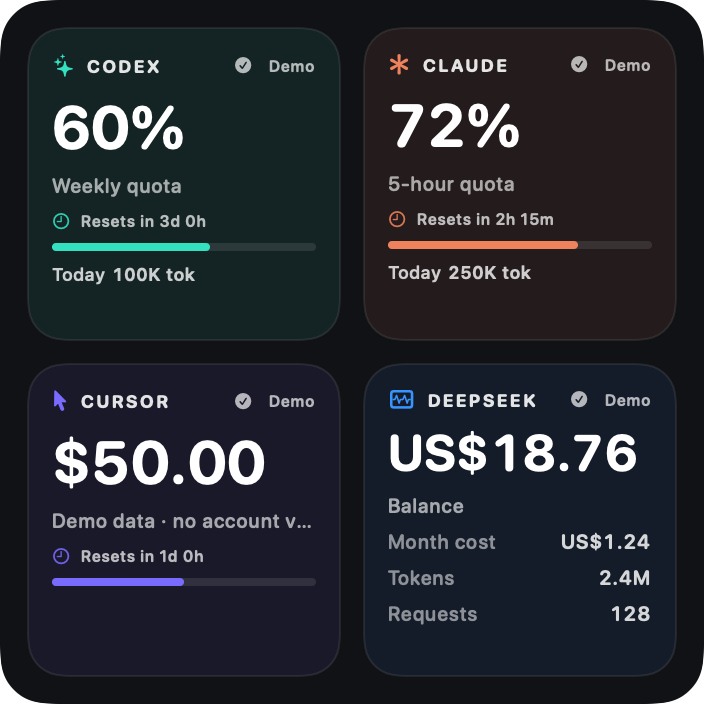
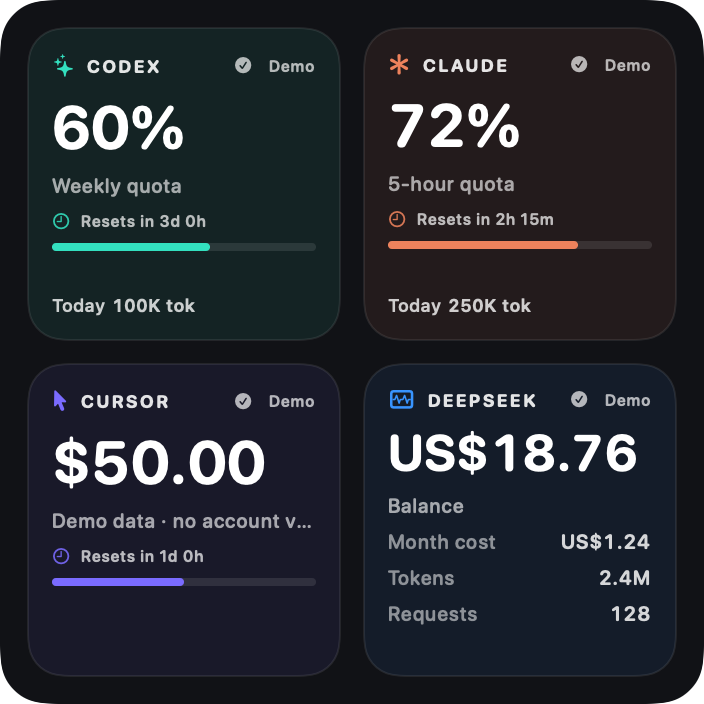
docs: show Services switches and every widget layout
Render the Services switches with a SwiftUI segmented control so screenshots
match the App, add a larger panel for services with a tile or row to
themselves, and document every widget size for one to four services.

Changed region(s): [[0.0625, 0.375, 0.2812, 0.4688], [0.5312, 0.375, 0.75, 0.4688]]

diff --git a/App/UsageMenuComponents.swift b/App/UsageMenuComponents.swift
@@ -183,9 +183,15 @@ struct QuotaLabel: View {
 /// Auto shows a service once it has data on this Mac; On and Off override that.
 struct ServiceSettingsSection: View {
     @ObservedObject var store: UsageStore
+    @State private var isExpanded: Bool
+
+    init(store: UsageStore, initiallyExpanded: Bool = false) {
+        self.store = store
+        _isExpanded = State(initialValue: initiallyExpanded)
+    }
 
     var body: some View {
-        DisclosureGroup {
+        DisclosureGroup(isExpanded: $isExpanded) {
             VStack(spacing: 6) {
                 ForEach(MeterProvider.allCases, id: \.self) { provider in
                     HStack {
@@ -197,17 +203,11 @@ struct ServiceSettingsSection: View {
                                 .foregroundStyle(.secondary)
                         }
                         Spacer()
-                        Picker(provider.displayName, selection: Binding(
+                        VisibilityControl(selection: Binding(
                             get: { store.providerSettings[provider] },
                             set: { store.setVisibility($0, for: provider) }
-                        )) {
-                            Text("Auto").tag(ProviderVisibility.auto)
-                            Text("On").tag(ProviderVisibility.shown)
-                            Text("Off").tag(ProviderVisibility.hidden)
-                        }
-                        .pickerStyle(.segmented)
-                        .labelsHidden()
-                        .fixedSize()
+                        ))
+                        .accessibilityLabel("\(provider.displayName) visibility")
                     }
                 }
             }
@@ -216,6 +216,40 @@ struct ServiceSettingsSection: View {
             Label("Services", systemImage: "slider.horizontal.3")
                 .font(.subheadline.weight(.semibold))
                 .foregroundStyle(.secondary)
+        }
+    }
+}
+
+/// SwiftUI-drawn segmented control, so screenshots render it like the App does.
+private struct VisibilityControl: View {
+    @Binding var selection: ProviderVisibility
+
+    var body: some View {
+        HStack(spacing: 2) {
+            ForEach(ProviderVisibility.allCases, id: \.self) { option in
+                Button { selection = option } label: {
+                    Text(title(option))
+                        .font(.caption.weight(selection == option ? .semibold : .regular))
+                        .frame(width: 42, height: 20)
+                        .background(
+                            RoundedRectangle(cornerRadius: 5, style: .continuous)
+                                .fill(selection == option ? Color.accentColor.opacity(0.85) : .clear)
+                        )
+                        .foregroundStyle(selection == option ? Color.white : Color.primary)
+                }
+                .buttonStyle(.plain)
+                .accessibilityAddTraits(selection == option ? .isSelected : [])
+            }
+        }
+        .padding(2)
+        .background(Color.primary.opacity(0.08), in: RoundedRectangle(cornerRadius: 7, style: .continuous))
+    }
+
+    private func title(_ option: ProviderVisibility) -> String {
+        switch option {
+        case .auto: "Auto"
+        case .shown: "On"
+        case .hidden: "Off"
         }
     }
 }

diff --git a/Widget/QuotaProviderPanel.swift b/Widget/QuotaProviderPanel.swift
@@ -35,12 +35,15 @@ enum QuotaPanelDensity {
     case strip
     case compact
     case regular
+    /// A service with a tile or full row to itself.
+    case hero
 
     var padding: CGFloat {
         switch self {
         case .strip: 6
         case .compact: 6
         case .regular: 12
+        case .hero: 16
         }
     }
 
@@ -49,6 +52,7 @@ enum QuotaPanelDensity {
         case .strip: 2
         case .compact: 2
         case .regular: 6
+        case .hero: 8
         }
     }
 
@@ -57,6 +61,7 @@ enum QuotaPanelDensity {
         case .strip: 17
         case .compact: 20
         case .regular: 30
+        case .hero: 52
         }
     }
 }
@@ -220,6 +225,8 @@ struct QuotaProviderPanel: View {
                 QuotaProgressBar(percent: remainingPercent, tint: progressColor)
                     .frame(height: 4)
             }
+            // Keeps today's tokens at the bottom when the panel has spare height.
+            Spacer(minLength: 0)
             dailyTokenLine
         }
     }
@@ -243,6 +250,14 @@ struct QuotaProviderPanel: View {
     }
 
     private var value: some View {
+        // Drops the "remaining" suffix rather than truncating when space runs out.
+        ViewThatFits(in: .horizontal) {
+            valueRow(showsSuffix: density != .regular)
+            valueRow(showsSuffix: false)
+        }
+    }
+
+    private func valueRow(showsSuffix: Bool) -> some View {
         HStack(alignment: .firstTextBaseline, spacing: 6) {
             Text(valueText)
                 .font(.system(size: density.valueSize, weight: .bold, design: .rounded))
@@ -250,14 +265,16 @@ struct QuotaProviderPanel: View {
                 .foregroundStyle(.white)
                 .lineLimit(1)
                 .minimumScaleFactor(0.7)
-            if density != .regular {
+            if showsSuffix {
                 Text("remaining")
                     .font(.system(size: 9, weight: .semibold, design: .rounded))
                     .foregroundStyle(.white.opacity(0.52))
+                    .fixedSize()
             }
             Spacer(minLength: 0)
         }
     }
+
 
     private var resetLine: some View {
         HStack(spacing: 5) {

diff --git a/App/UsageMenuView.swift b/App/UsageMenuView.swift
@@ -9,6 +9,7 @@ struct UsageMenuView: View {
     var viewHeight: CGFloat = 700
     var referenceDate: Date?
     var refreshErrorOverride: String?
+    var servicesExpanded = false
     private var presentationDate: Date { referenceDate ?? .now }
     private let timer = Timer.publish(every: 300, on: .main, in: .common).autoconnect()
 
@@ -40,12 +41,14 @@ struct UsageMenuView: View {
     }
 
     private var fittedHeight: CGFloat {
-        Self.fittedHeight(for: store.visibleProviders, maxHeight: viewHeight)
+        Self.fittedHeight(for: store.visibleProviders, maxHeight: viewHeight, servicesExpanded: servicesExpanded)
     }
 
     /// Fewer services shrink the popover instead of leaving an empty scroll area;
     /// larger content keeps the requested height and scrolls.
-    static func fittedHeight(for providers: [MeterProvider], maxHeight: CGFloat) -> CGFloat {
+    static func fittedHeight(
+        for providers: [MeterProvider], maxHeight: CGFloat, servicesExpanded: Bool = false
+    ) -> CGFloat {
         let sections = providers.reduce(CGFloat(0)) { total, provider in
             switch provider {
             case .codex, .claude: total + 135
@@ -53,7 +56,7 @@ struct UsageMenuView: View {
             case .deepseek: total + 270
             }
         }
-        return min(maxHeight, 235 + sections)
+        return min(maxHeight, 235 + sections + (servicesExpanded ? 125 : 0))
     }
 
     @ViewBuilder
@@ -72,7 +75,7 @@ struct UsageMenuView: View {
                 section(for: provider)
             }
             Divider()
-            ServiceSettingsSection(store: store)
+            ServiceSettingsSection(store: store, initiallyExpanded: servicesExpanded)
         }
         .padding(16)
         .frame(maxHeight: .infinity, alignment: .top)

diff --git a/Widget/QuotaWidgetContent.swift b/Widget/QuotaWidgetContent.swift
@@ -27,14 +27,20 @@ struct QuotaWidgetContent: View {
                 let roomy = providers.count <= 2
                 VStack(spacing: roomy ? 6 : 4) {
                     ForEach(providers, id: \.self) { provider in
-                        item(provider, quota: roomy ? .compact : .strip, deepSeek: roomy ? .regular : .strip)
+                        item(provider,
+                             quota: providers.count == 1 ? .hero : roomy ? .compact : .strip,
+                             deepSeek: providers.count == 1 ? .tall : roomy ? .regular : .strip)
                     }
                 }
+            case .systemMedium where providers.count == 1:
+                grid([providers], spacing: 7, quota: .hero, deepSeek: .regular)
             case .systemMedium:
                 grid(ProviderGridLayout.rows(providers), spacing: 7, quota: .compact, deepSeek: .regular)
             case .systemLarge where providers.count <= 2:
                 // A square tile reads better as full-width rows than as two tall columns.
-                grid(providers.map { [$0] }, spacing: 12, quota: .regular, deepSeek: .regular)
+                grid(providers.map { [$0] }, spacing: 12, quota: .hero, deepSeek: .tall)
+            case .systemExtraLarge where providers.count <= 2:
+                grid([providers], spacing: 12, quota: .hero, deepSeek: .tall)
             default:
                 grid(ProviderGridLayout.rows(providers), spacing: 12, quota: .regular, deepSeek: .tall)
             }

diff --git a/PreviewRenderer/PreviewRenderer.swift b/PreviewRenderer/PreviewRenderer.swift
@@ -10,6 +10,23 @@ struct PreviewRenderer {
         let outputDirectory = URL(fileURLWithPath: arguments.count > 1 ? arguments[1] : "screenshots", isDirectory: true)
         try FileManager.default.createDirectory(at: outputDirectory, withIntermediateDirectories: true)
 
+        let servicesSnapshot = UsageSnapshot.preview
+        let servicesHeight = UsageMenuView.fittedHeight(
+            for: MeterProvider.allCases, maxHeight: 1_300, servicesExpanded: true
+        )
+        let servicesMenu = UsageMenuView(
+            store: UsageStore(snapshot: servicesSnapshot, providerSettings: .default, observesSnapshotChanges: false),
+            automaticRefresh: false,
+            scrollsContent: false,
+            updatedDescriptionOverride: "from demo data",
+            viewHeight: servicesHeight,
+            referenceDate: UsageSnapshot.previewDate,
+            servicesExpanded: true
+        )
+        .background(Color(nsColor: .windowBackgroundColor))
+        render(servicesMenu, size: CGSize(width: 410, height: servicesHeight), colorScheme: .dark,
+               to: outputDirectory.appendingPathComponent("menu-popover-services.png"))
+
         for scenario in UsagePreviewScenario.allCases {
             let suffix = scenario == .normal ? "" : "-\(scenario.rawValue)"
             let snapshot = scenario.snapshot

diff --git a/Shared/UsageSnapshotPreviewStates.swift b/Shared/UsageSnapshotPreviewStates.swift
@@ -2,12 +2,16 @@ import Foundation
 
 enum UsagePreviewScenario: String, CaseIterable {
     case normal, stale, unavailable, signedOut, error, refreshError, zero, largeValues, remoteUnavailable, longList
-    case codexClaudeOnly, withoutCursor
+    case oneService, codexClaudeOnly, withoutCursor
 
     /// Service switches for layouts with fewer than four services.
     var providerSettings: ProviderSettings {
         var settings = ProviderSettings.default
         switch self {
+        case .oneService:
+            settings[.codex] = .hidden
+            settings[.cursor] = .hidden
+            settings[.deepseek] = .hidden
         case .codexClaudeOnly:
             settings[.cursor] = .hidden
             settings[.deepseek] = .hidden
@@ -23,7 +27,7 @@ enum UsagePreviewScenario: String, CaseIterable {
         let base = UsageSnapshot.preview
         let now = UsageSnapshot.previewDate
         switch self {
-        case .normal, .codexClaudeOnly, .withoutCursor: return base
+        case .normal, .oneService, .codexClaudeOnly, .withoutCursor: return base
         case .refreshError: return base
         case .stale: return .widgetStalePreview
         case .signedOut: return .widgetDeepSeekSignedOutPreview

diff --git a/README.md b/README.md
@@ -126,46 +126,49 @@ balance, current-month cost, tokens and requests.
 | Extra Large | Large layout with wider panels |
 
 <details>
-<summary><b>All Widget sizes and layouts</b></summary>
+<summary><b>All Widget sizes × number of services</b></summary>
 
 <table>
   <tr>
-    <th>Small Widget</th>
-    <th>Medium Widget</th>
+    <th></th>
+    <th>4 services</th>
+    <th>3 services</th>
+    <th>2 services</th>
+    <th>1 service</th>
   </tr>
   <tr>
-    <td align="center">
-      <img src="screenshots/widget-small.png" alt="BeaverMeter Small Widget with Demo data" width="174">
-    </td>
-    <td align="center">
-      <img src="screenshots/widget-medium.png" alt="BeaverMeter Medium Widget with Demo data" width="352">
-    </td>
+    <th>Small</th>
+    <td align="center"><img src="screenshots/widget-small.png" alt="Small Widget with four services" width="120"></td>
+    <td align="center"><img src="screenshots/widget-small-3-services.png" alt="Small Widget with three services" width="120"></td>
+    <td align="center"><img src="screenshots/widget-small-2-services.png" alt="Small Widget with two services" width="120"></td>
+    <td align="center"><img src="screenshots/widget-small-1-service.png" alt="Small Widget with one services" width="120"></td>
   </tr>
   <tr>
-    <th>Large Widget</th>
-    <th>Extra Large Widget</th>
+    <th>Medium</th>
+    <td align="center"><img src="screenshots/widget-medium.png" alt="Medium Widget with four services" width="200"></td>
+    <td align="center"><img src="screenshots/widget-medium-3-services.png" alt="Medium Widget with three services" width="200"></td>
+    <td align="center"><img src="screenshots/widget-medium-2-services.png" alt="Medium Widget with two services" width="200"></td>
+    <td align="center"><img src="screenshots/widget-medium-1-service.png" alt="Medium Widget with one services" width="200"></td>
   </tr>
   <tr>
-    <td align="center">
-      <img src="screenshots/widget-large.png" alt="BeaverMeter Large Widget with Demo data" width="352">
-    </td>
-    <td align="center">
-      <img src="screenshots/widget-extra-large.png" alt="BeaverMeter Extra Large Widget with Demo data" width="430">
-    </td>
+    <th>Large</th>
+    <td align="center"><img src="screenshots/widget-large.png" alt="Large Widget with four services" width="200"></td>
+    <td align="center"><img src="screenshots/widget-large-3-services.png" alt="Large Widget with three services" width="200"></td>
+    <td align="center"><img src="screenshots/widget-large-2-services.png" alt="Large Widget with two services" width="200"></td>
+    <td align="center"><img src="screenshots/widget-large-1-service.png" alt="Large Widget with one services" width="200"></td>
   </tr>
   <tr>
-    <th>Three services, Medium</th>
-    <th>Two services, Large</th>
-  </tr>
-  <tr>
-    <td align="center">
-      <img src="screenshots/widget-medium-three-services.png" alt="Medium Widget with three services" width="352">
-    </td>
-    <td align="center">
-      <img src="screenshots/widget-large-two-services.png" alt="Large Widget with two services" width="352">
-    </td>
+    <th>Extra Large</th>
+    <td align="center"><img src="screenshots/widget-extra-large.png" alt="Extra Large Widget with four services" width="260"></td>
+    <td align="center"><img src="screenshots/widget-extra-large-3-services.png" alt="Extra Large Widget with three services" width="260"></td>
+    <td align="center"><img src="screenshots/widget-extra-large-2-services.png" alt="Extra Large Widget with two services" width="260"></td>
+    <td align="center"><img src="screenshots/widget-extra-large-1-service.png" alt="Extra Large Widget with one services" width="260"></td>
   </tr>
 </table>
+
+Columns use Codex + Claude + Cursor + DeepSeek, then without Cursor, then
+Codex + Claude, then Claude alone. A service with a tile or full row to itself
+gets a larger panel.
 
 Every screenshot is generated from the bundled preview snapshot; none contains
 live account values or private Cursor activity.
@@ -201,6 +204,10 @@ panel. Open **Services** at the bottom of the popover to force a service
 not contacted at all. The switches are stored in
 `~/Library/Application Support/BeaverMeter/beaver-meter-settings.json`, which
 the Widget and collector read too.
+
+<p align="center">
+  <img src="screenshots/menu-popover-services.png" alt="BeaverMeter popover with the Services switches expanded" width="320">
+</p>
 
 ## 📊 Data sources
 
